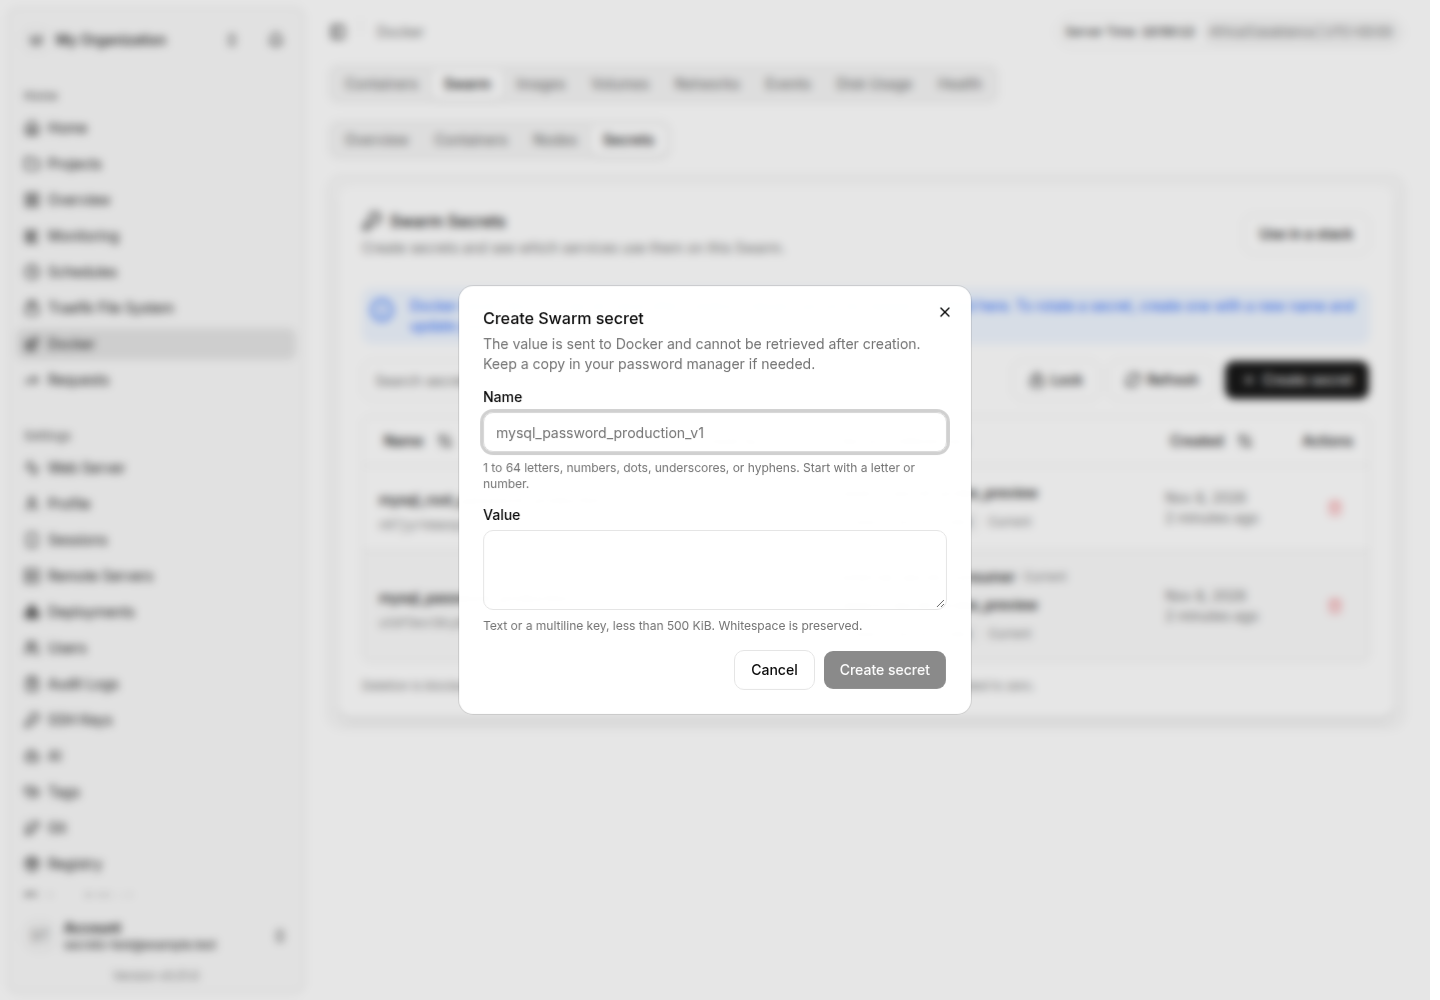
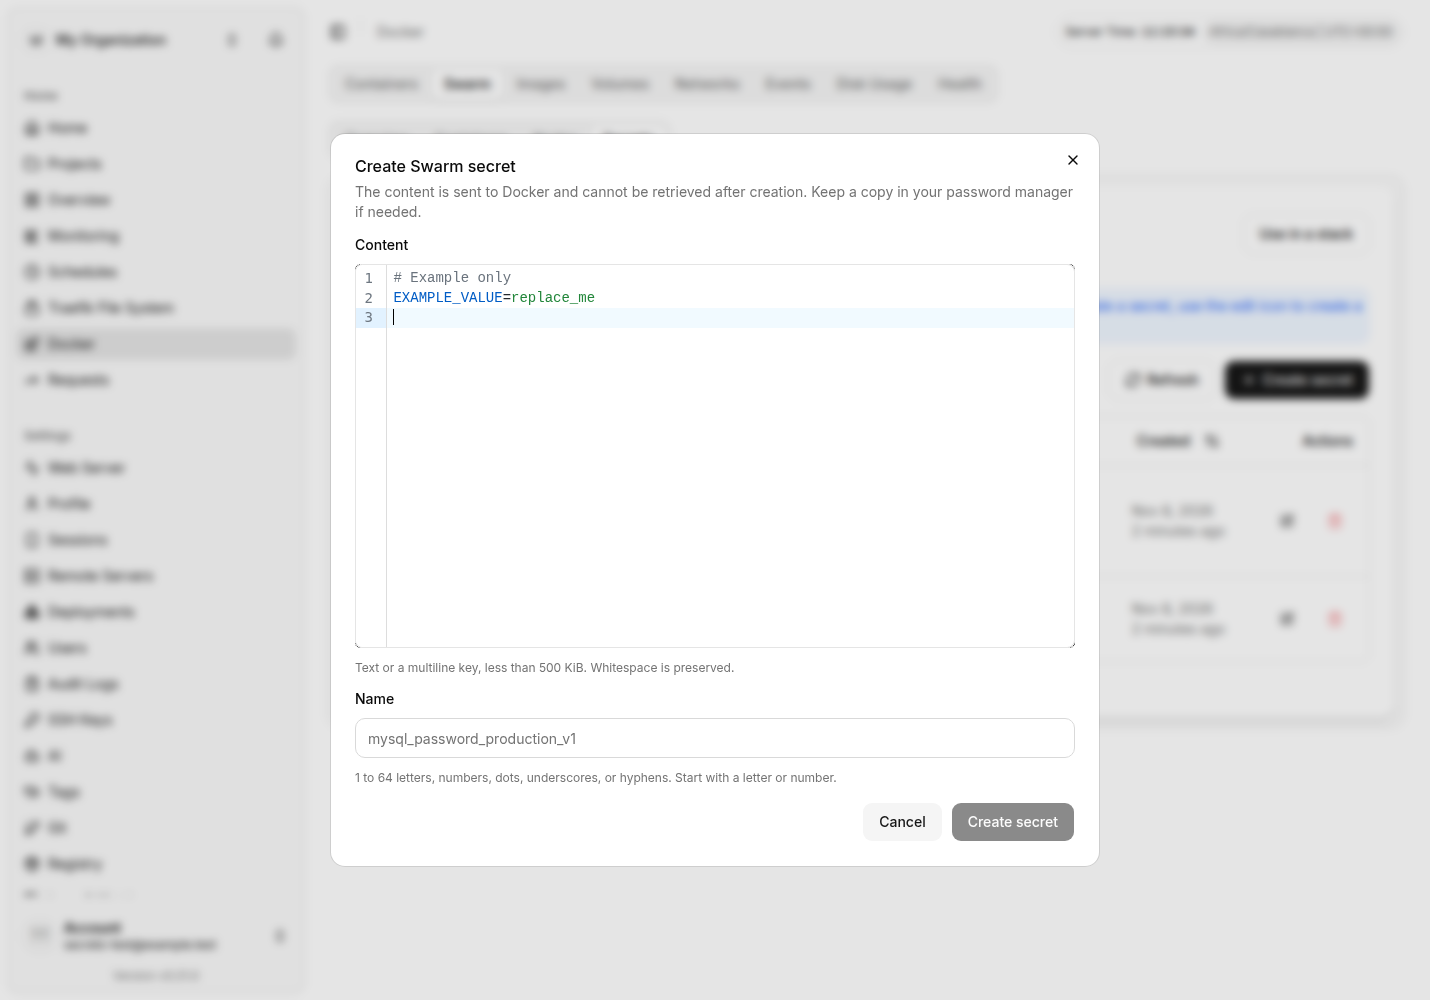
docs: refresh Swarm secret editor and delete previews

Changed region(s): [[0.2188, 0.124, 0.9375, 0.868]]

diff --git a/swarm-secrets-preview/README.md b/swarm-secrets-preview/README.md
@@ -1,13 +1,15 @@
 # Swarm secrets preview
 
-Feature commit: `5deb0c575f2f824d9eb0ba6f37cf7bf14af90a25`. Base: `3c6d5f611389fdb0eeab9e13285ae3d6828800c0`.
+Feature commit: `d78d6236196f092c0a76a5a8a3b0bc76dd287a12`. Base: `3c6d5f611389fdb0eeab9e13285ae3d6828800c0`.
 
-The five screenshots show the latest source app on 8 November 2026. They were refreshed after moving Created before Actions and removing the clock time from creation dates. The app uses real PostgreSQL, Docker secrets, and service references in an isolated Docker-in-Docker Swarm. No real credentials or secret values are included.
+Seven screenshots show the source app on 8 November 2026. The list uses the standard signed-in Docker permission and selected-server checks. It opens directly. The app uses real PostgreSQL, Docker secrets, and service references in an isolated Docker-in-Docker Swarm. Screenshots contain sample names and public example content, with no private credentials or stored secret values.
 
-`layout-results.json` records eight browser checks against the current development app: column order, date-only text above relative time, sorting, copy-name buttons, referenced deletion protection, typed-name deletion, the Overview count, and TOTP verification. Type checks and changed-file Biome checks also passed.
+The create dialog reuses Dokploy's shared code editor. The pencil opens Create replacement secret with empty content and a new name. Docker cannot return or change an existing value. The old secret and its references are preserved. Hovering over or focusing a disabled delete icon explains why deletion is blocked.
 
-The initial feature commit `0b07870fb2ac48dba33439f89c75c634d9c179f3` passed 175 targeted tests, workspace type checks and production builds, and 17 HTTPS production browser checks. See `production-results.json` for that run. Its earlier column layout was replaced by the layout follow-up above. HTTPS used a local self-signed certificate through Traefik; public ACME issuance was not tested.
+`direct-access-results.json` records 17 browser checks with no browser errors. These cover normal signed-in access, column order, date formatting and sorting, copying names, typed-name deletion, count updates, metadata-only responses, anonymous access rejection, confirmation during background refresh, multiline UTF-8 content, replacement creation, and the disabled-delete tooltip. A temporary Swarm service mounted the UI-created value, and its SHA-256 matched the submitted bytes, including whitespace and non-ASCII text.
 
-`runtime-results.json` records the earlier real Dokploy stack deployment, mounted file bytes, task recreation, zero-replica deletion protection, and local/SSH scope checks. `security-results.json` records password and 2FA checks, expiry, parallel attempt limits, second-session rejection, and mobile verification.
+`direct-runtime-results.json` records nine live Docker checks, including UTF-8 byte limits, duplicate names, exact-name confirmation, already-deleted errors, zero-replica services, and rollback-only references. The tests remove their temporary secrets and services.
+
+149 targeted tests across 13 files, workspace type checks, and changed-file Biome checks passed. All workspace production builds passed. See `verification.json` for details. These screenshots come from the source development app. Earlier feature evidence remains in the branch history.
 
 The usage count is the number of distinct Swarm services referencing a secret, including rollback references. One stack can contain several such services. The host Swarm was not initialized or changed.
